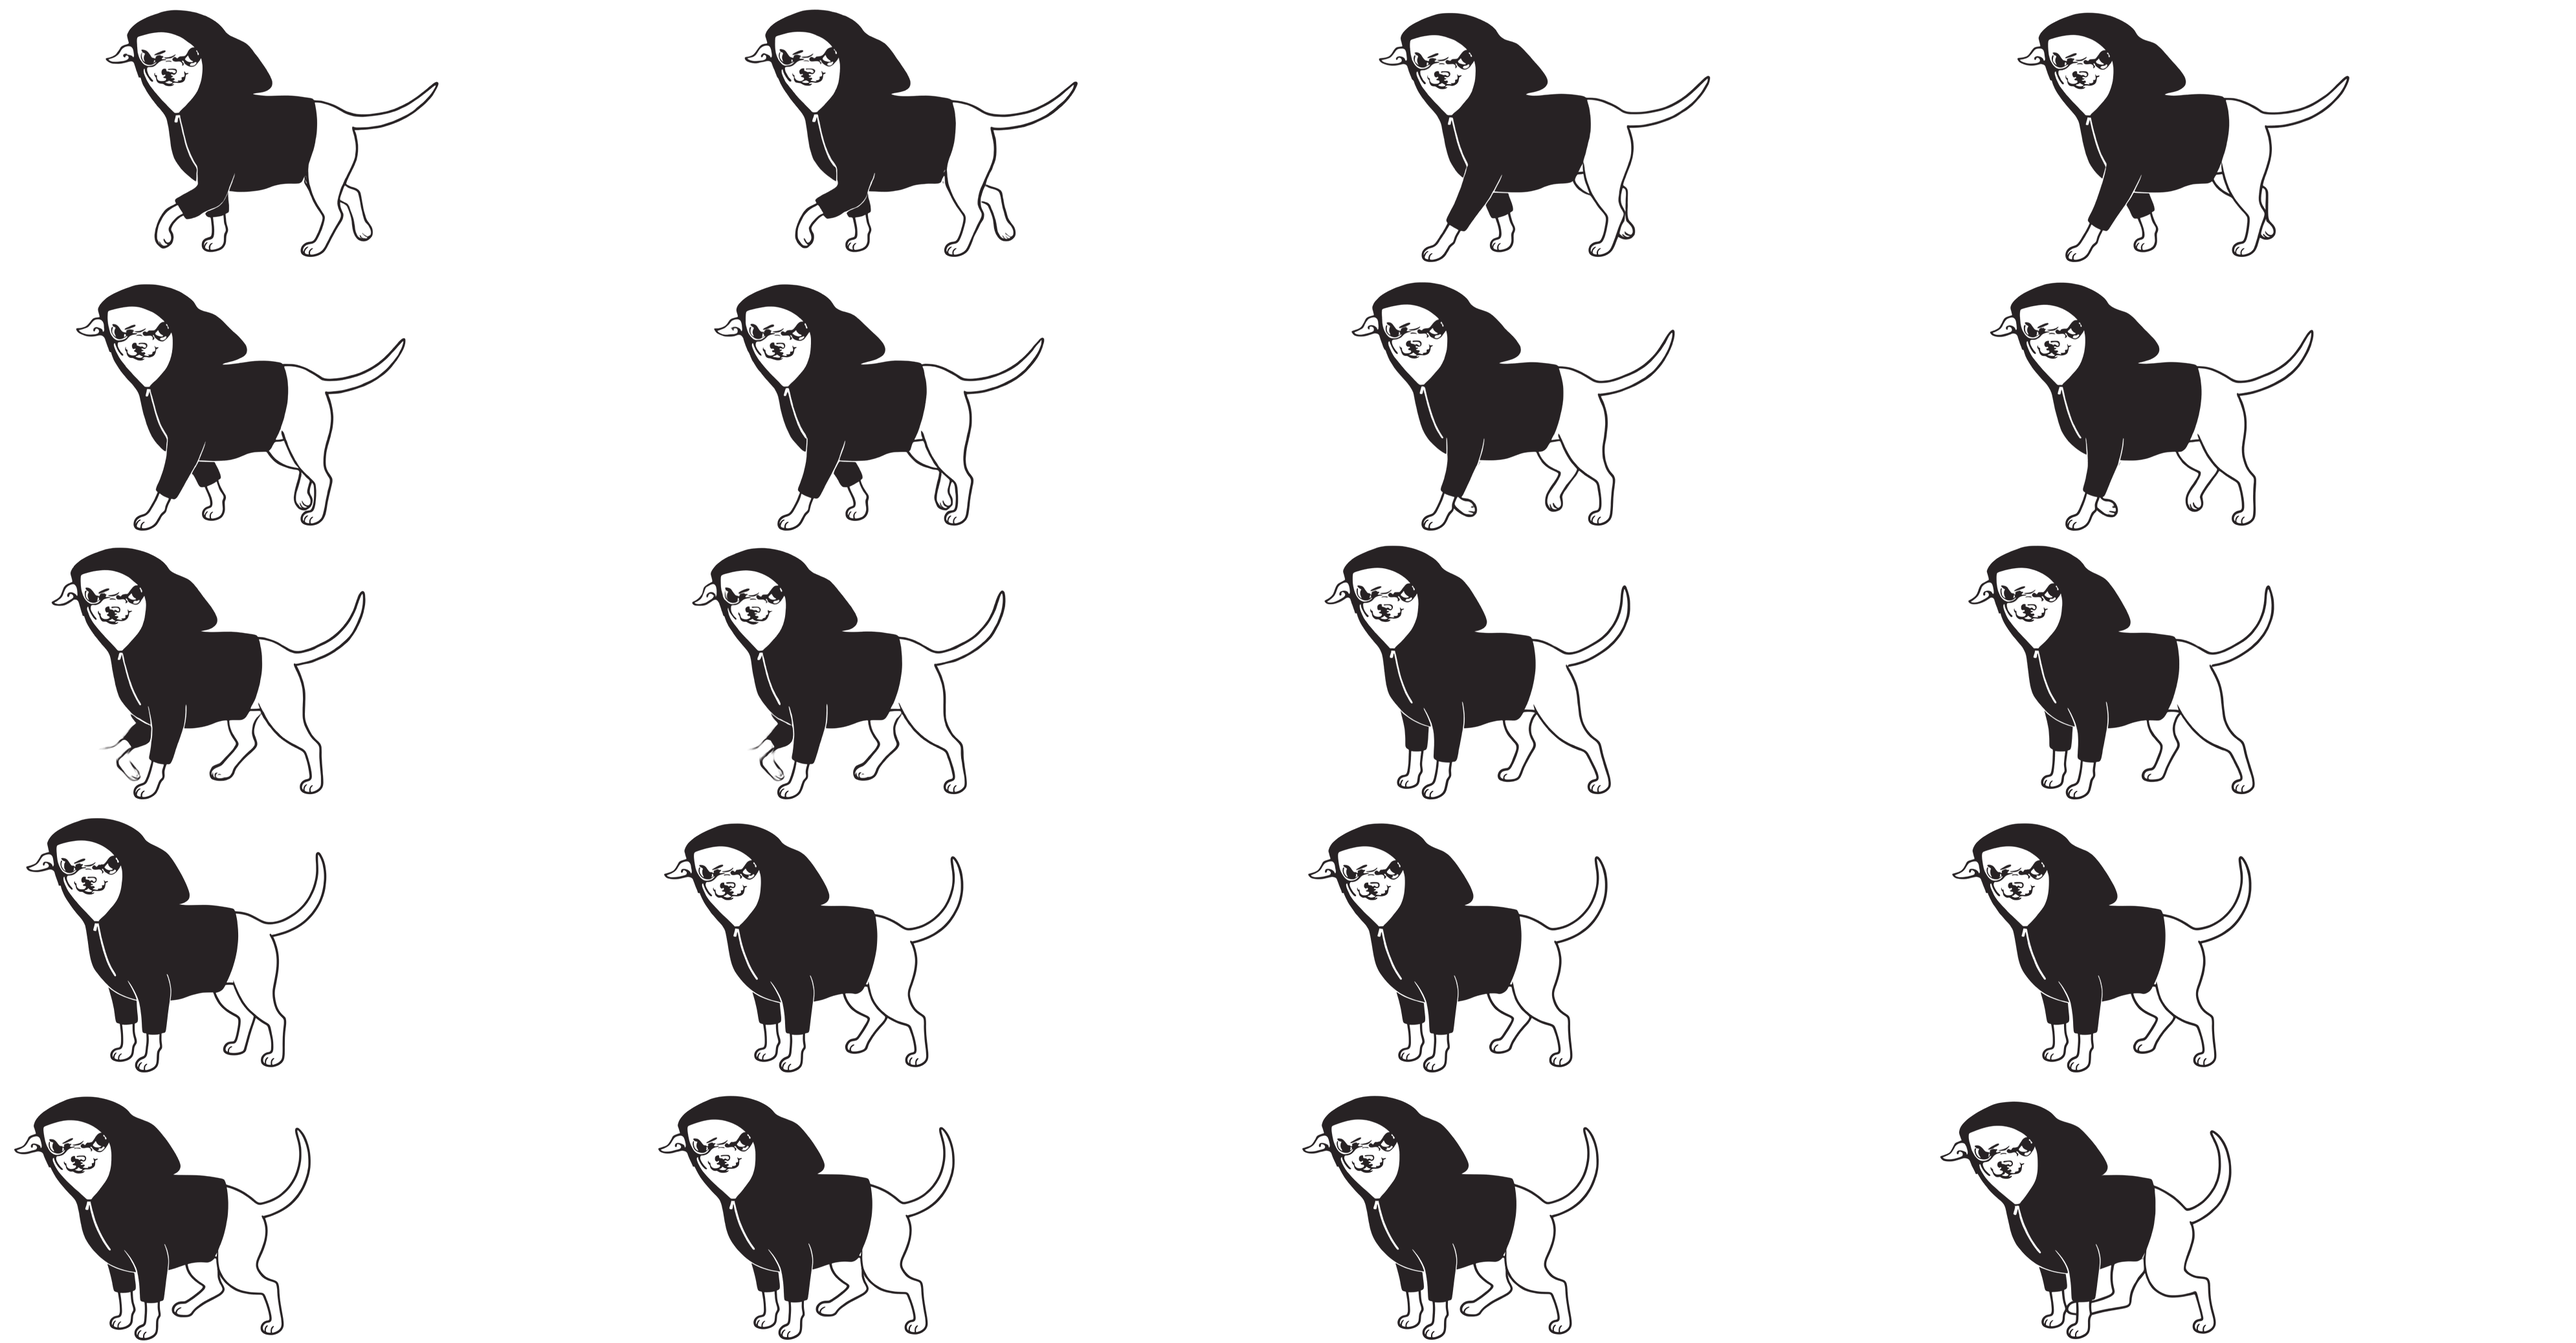
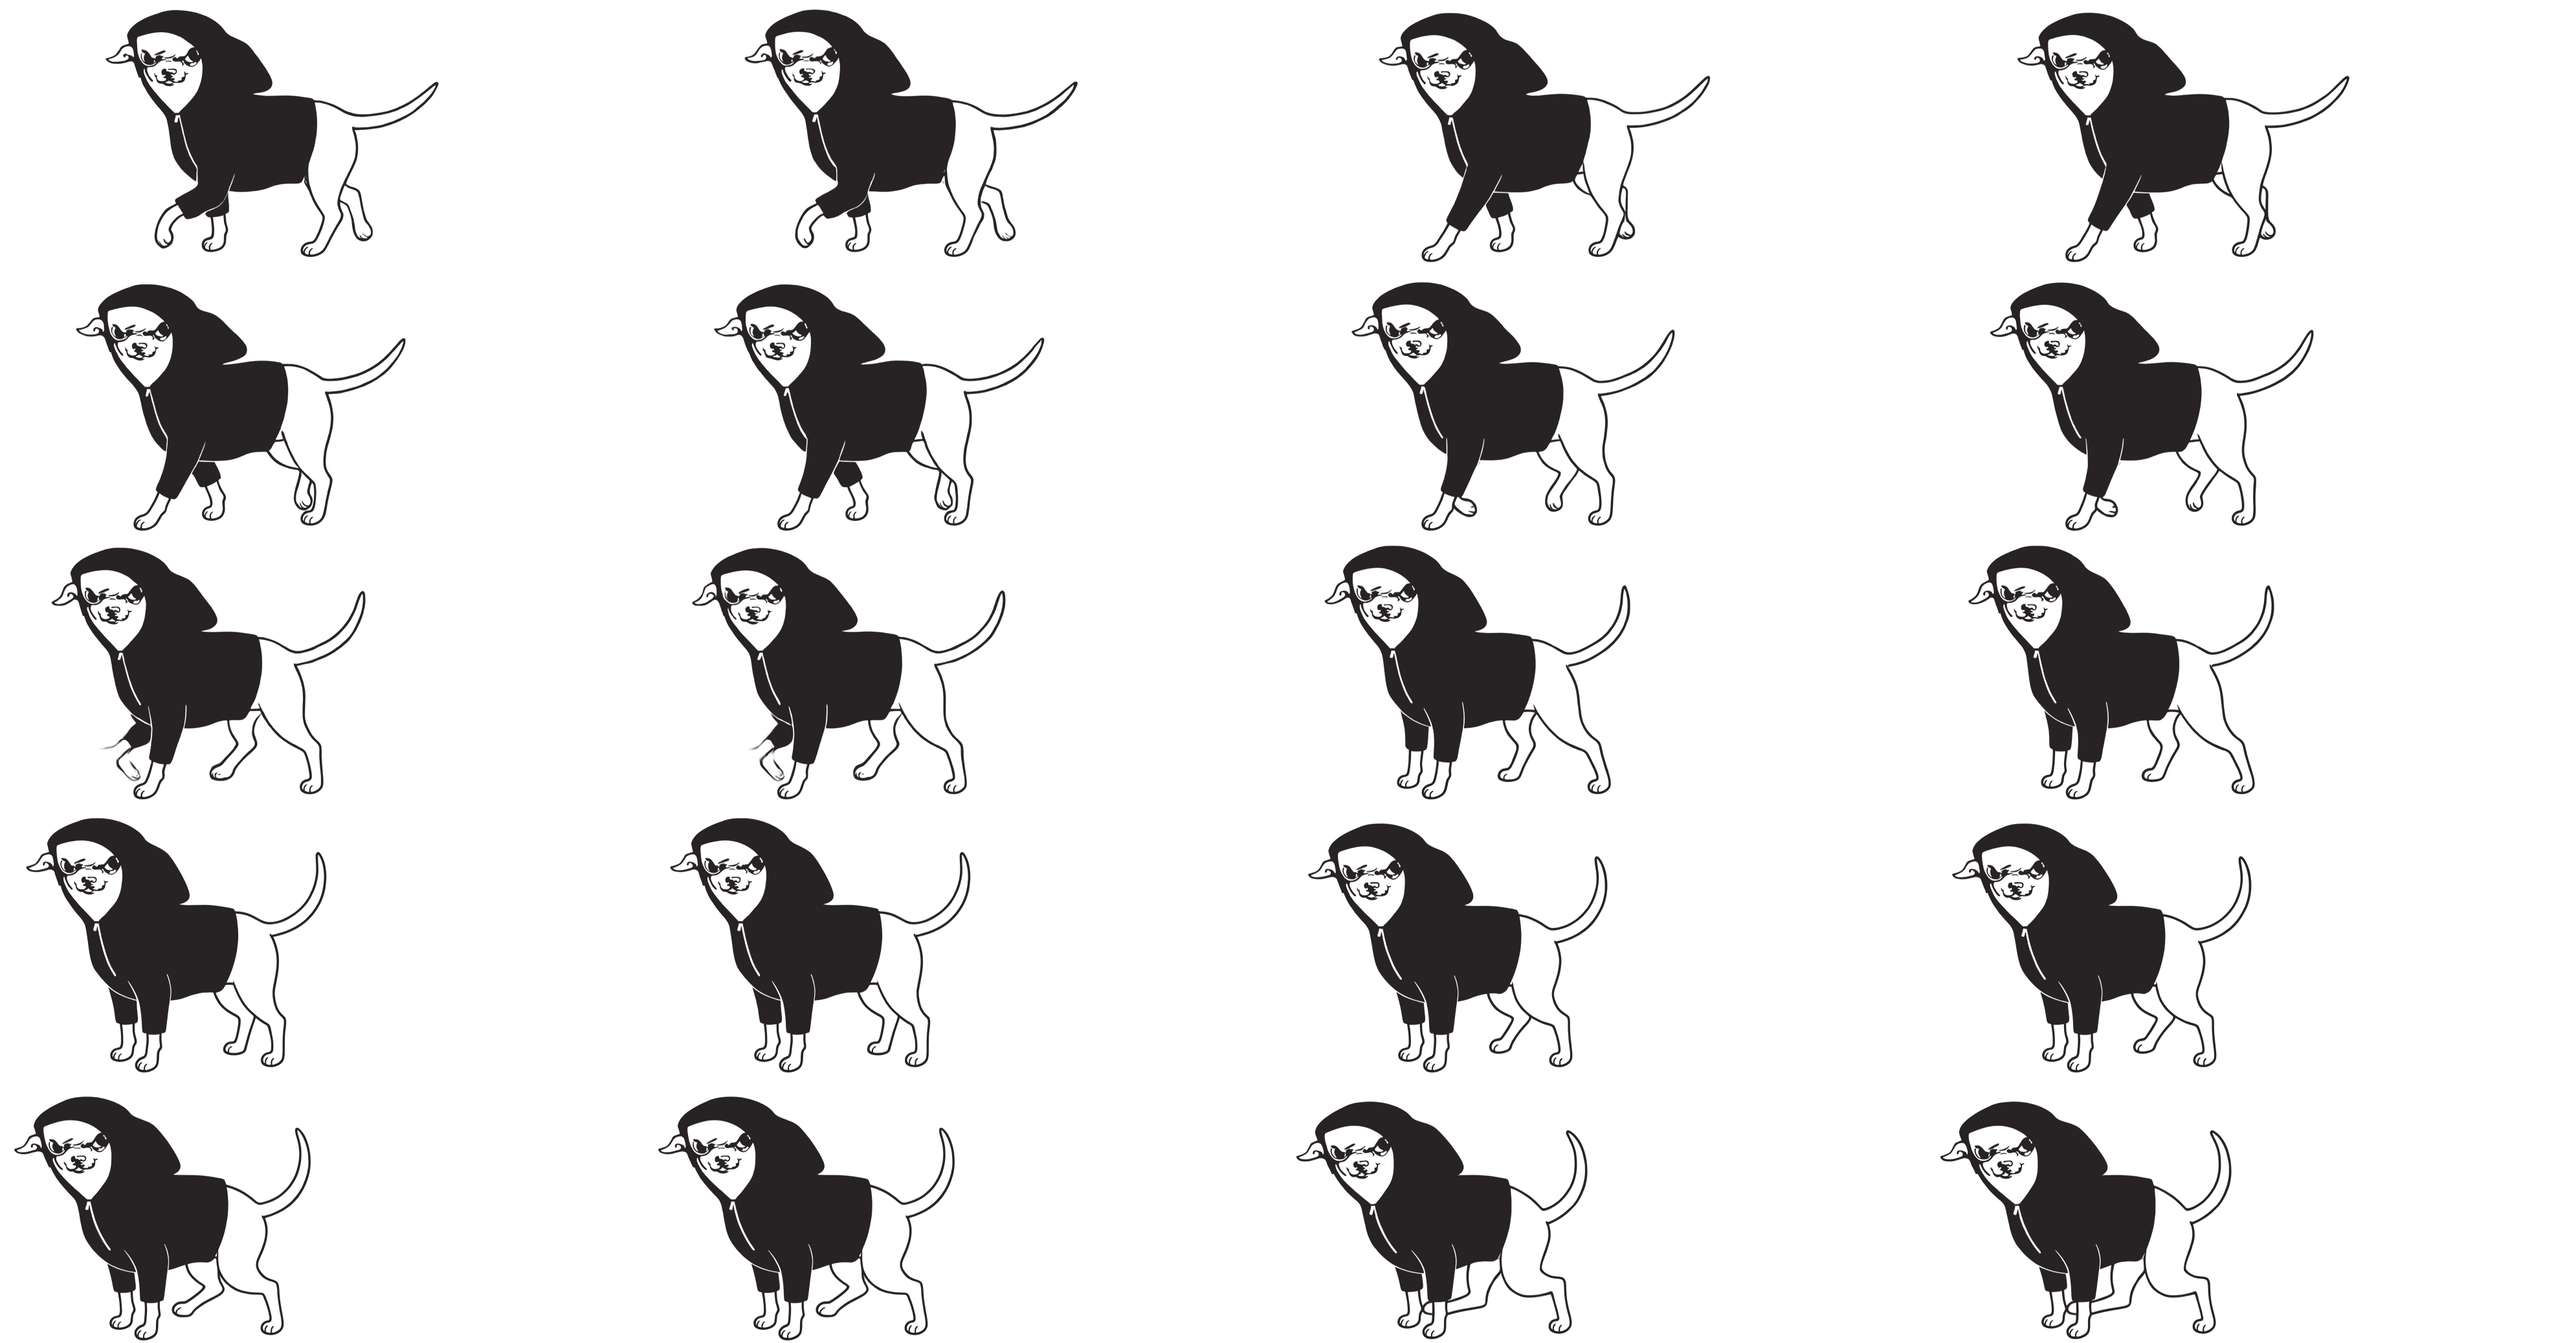
Dog: the sit moves in the same rhythm as the walk

diff --git a/index.html b/index.html
@@ -684,7 +684,7 @@ function renderDog(alt = COPY.dogAlt) {
    The sitting dog it ends on is a still (media/piesek-siedzi.webp) with Jana's
    original head; the tongue, the lid and the pupils sit on it, placed with
    DOG_STAGE.grid (the same 1357 x 1072 grid as the dog above). */
-const DOG_STAGE = { walkFrom: 489, walkEnd: 52, w: 995, h: 415, frames: 132, cols: 4, rows: 5, sheets: 7, fps: 24,
+const DOG_STAGE = { walkFrom: 489, walkEnd: 52, w: 995, h: 415, frames: 124, cols: 4, rows: 5, sheets: 7, fps: 24,
   still: [76.67, 18.67, 434.07, 391.4], grid: [0.265595, 39.599, -10.698] };
 function renderWalkingDog(alt = COPY.dogAlt) {
   const S = DOG_STAGE, [x, y, w, h] = S.still;
@@ -730,7 +730,7 @@ function dogWalk() {
   };
   for (let n = 1; n <= S.sheets; n++) {
     const im = new Image();
-    im.src = `media/piesek-wejscie-${n}.webp?v=7`;   // ?v= makes browsers fetch new frames after an update
+    im.src = `media/piesek-wejscie-${n}.webp?v=8`;   // ?v= makes browsers fetch new frames after an update
     imgs.push(im);
   }
   // wait for every sheet to load and (where the browser allows) to decode, but

diff --git a/kursor.html b/kursor.html
@@ -684,7 +684,7 @@ function renderDog(alt = COPY.dogAlt) {
    The sitting dog it ends on is a still (media/piesek-siedzi.webp) with Jana's
    original head; the tongue, the lid and the pupils sit on it, placed with
    DOG_STAGE.grid (the same 1357 x 1072 grid as the dog above). */
-const DOG_STAGE = { walkFrom: 489, walkEnd: 52, w: 995, h: 415, frames: 132, cols: 4, rows: 5, sheets: 7, fps: 24,
+const DOG_STAGE = { walkFrom: 489, walkEnd: 52, w: 995, h: 415, frames: 124, cols: 4, rows: 5, sheets: 7, fps: 24,
   still: [76.67, 18.67, 434.07, 391.4], grid: [0.265595, 39.599, -10.698] };
 function renderWalkingDog(alt = COPY.dogAlt) {
   const S = DOG_STAGE, [x, y, w, h] = S.still;
@@ -730,7 +730,7 @@ function dogWalk() {
   };
   for (let n = 1; n <= S.sheets; n++) {
     const im = new Image();
-    im.src = `media/piesek-wejscie-${n}.webp?v=7`;   // ?v= makes browsers fetch new frames after an update
+    im.src = `media/piesek-wejscie-${n}.webp?v=8`;   // ?v= makes browsers fetch new frames after an update
     imgs.push(im);
   }
   // wait for every sheet to load and (where the browser allows) to decode, but

diff --git a/oddech.html b/oddech.html
@@ -684,7 +684,7 @@ function renderDog(alt = COPY.dogAlt) {
    The sitting dog it ends on is a still (media/piesek-siedzi.webp) with Jana's
    original head; the tongue, the lid and the pupils sit on it, placed with
    DOG_STAGE.grid (the same 1357 x 1072 grid as the dog above). */
-const DOG_STAGE = { walkFrom: 489, walkEnd: 52, w: 995, h: 415, frames: 132, cols: 4, rows: 5, sheets: 7, fps: 24,
+const DOG_STAGE = { walkFrom: 489, walkEnd: 52, w: 995, h: 415, frames: 124, cols: 4, rows: 5, sheets: 7, fps: 24,
   still: [76.67, 18.67, 434.07, 391.4], grid: [0.265595, 39.599, -10.698] };
 function renderWalkingDog(alt = COPY.dogAlt) {
   const S = DOG_STAGE, [x, y, w, h] = S.still;
@@ -730,7 +730,7 @@ function dogWalk() {
   };
   for (let n = 1; n <= S.sheets; n++) {
     const im = new Image();
-    im.src = `media/piesek-wejscie-${n}.webp?v=7`;   // ?v= makes browsers fetch new frames after an update
+    im.src = `media/piesek-wejscie-${n}.webp?v=8`;   // ?v= makes browsers fetch new frames after an update
     imgs.push(im);
   }
   // wait for every sheet to load and (where the browser allows) to decode, but
